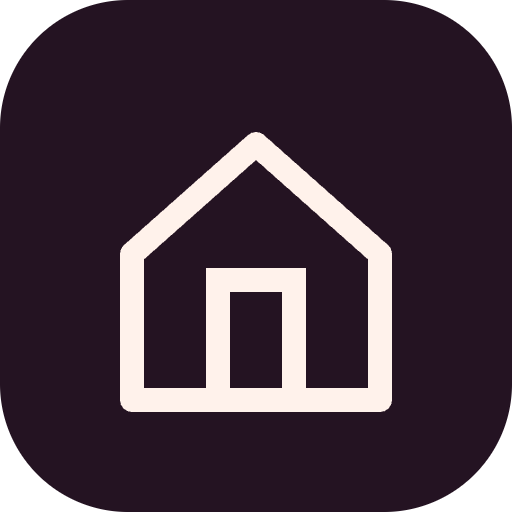
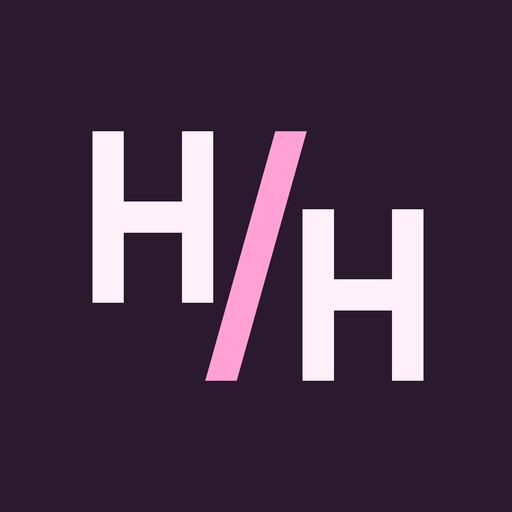
Apply the Staffel H/H identity

diff --git a/internal/web/templates/page.html b/internal/web/templates/page.html
@@ -1,13 +1,13 @@
 {{define "page"}}<!doctype html>
 <html lang="{{.LanguageTag}}" data-locale="{{.Locale}}"><head><meta charset="utf-8"><meta name="viewport" content="width=device-width,initial-scale=1,viewport-fit=cover"><meta name="theme-color" content="#faf5ee"><meta name="csrf-token" content="{{.CSRF}}"><title>{{.Title}} {{t "· Household"}}</title><link rel="manifest" href="/manifest.webmanifest?lang={{.Locale}}"><link rel="icon" href="{{index .Asset "icon.svg"}}"><link rel="apple-touch-icon" href="{{index .Asset "icon-192.png"}}">{{if eq .Locale "en"}}<script nonce="{{.Nonce}}" src="{{index .Asset "i18n-catalog.js"}}" defer></script>{{end}}<script nonce="{{.Nonce}}" src="{{index .Asset "i18n.js"}}" defer></script><script nonce="{{.Nonce}}" src="{{index .Asset "theme.js"}}"></script><link rel="stylesheet" href="{{index .Asset "app.css"}}"><link rel="stylesheet" href="{{index .Asset "settings-shell.css"}}">{{if .Workspace.Primary}}<link rel="stylesheet" href="{{index .Asset "workspace-navigation.css"}}">{{end}}<script nonce="{{.Nonce}}" src="{{index .Asset "pantry-device.js"}}" defer></script><script nonce="{{.Nonce}}" src="{{index .Asset "shopping-extension-ui.js"}}" defer></script><script nonce="{{.Nonce}}" src="{{index .Asset "shopping-device.js"}}" defer></script><script nonce="{{.Nonce}}" src="{{index .Asset "push-device.js"}}" defer></script><script nonce="{{.Nonce}}" src="{{index .Asset "recipe-offline.js"}}" defer></script><script nonce="{{.Nonce}}" src="{{index .Asset "report-values.js"}}" defer></script><script nonce="{{.Nonce}}" src="{{index .Asset "app.js"}}" defer></script><script nonce="{{.Nonce}}" src="{{index .Asset "settings-shell.js"}}" defer></script></head>
 <body data-view="{{.View}}" data-admin="{{if or (eq .View "settings") (eq .View "modules") (eq .View "notification-settings") (eq .View "security") (eq .View "users") (eq .View "audit") (eq .View "backup") (eq .View "system") (eq .View "help") (eq .View "reauth") (eq .View "totp") (eq .View "recovery")}}true{{else}}false{{end}}" data-user="{{.User.UserID}}" data-household="{{.User.HouseholdID}}" data-module="{{.Module.ID}}"><a class="skip" href="#main">{{t "Zum Inhalt"}}</a>
-{{if .User.UserID}}<aside class="sidebar"><a class="brand" href="/">{{template "logo" .}}<span>{{t "Household"}}</span></a><img class="sidebar-sprig" src="{{index .Asset "botanical-sprig.svg"}}" alt="" width="190" height="290"><nav aria-label="{{t "Module"}}"><a class="nav-link {{if eq .View "today"}}current{{end}}" href="/" data-home-link {{if eq .View "today"}}aria-current="page"{{end}}><svg aria-hidden="true"><use href="{{icon .Asset "home"}}"/></svg>{{t "Heute"}}</a>{{range .Modules}}{{if enabled $.States .ID}}<a class="nav-link {{if eq $.Module.ID .ID}}current{{end}}" data-module-id="{{.ID}}" href="{{moduleURL .}}" {{if eq $.Module.ID .ID}}aria-current="page"{{end}}><svg aria-hidden="true"><use href="{{icon $.Asset .Icon}}"/></svg>{{.Short}}</a>{{end}}{{end}}</nav><div class="sidebar-bottom"><p>{{.User.DisplayName}}<small>{{.User.Role}}</small></p></div></aside>
-<header class="topbar"><a class="mobile-brand" href="/">{{template "logo" .}}<span>{{t "Household"}}</span></a>{{if and (ne .View "today") (not .Module.ID)}}<span class="desktop-greeting">{{t "Guten Tag, %s" .User.DisplayName}}</span>{{else}}<span class="shell-kicker">{{if .Module.ID}}{{.Module.Short}}{{else}}{{t "Heute"}}{{end}}</span>{{if ne .View "recipe-workspace"}}<img class="header-branch" src="{{index .Asset "copper-branch.webp"}}" width="760" height="383" alt="">{{end}}{{end}}
+{{if .User.UserID}}<aside class="sidebar"><a class="brand" href="/" aria-label="{{t "Household"}}">{{template "logo" .}}</a><img class="sidebar-sprig" src="{{index .Asset "botanical-sprig.svg"}}" alt="" width="190" height="290"><nav aria-label="{{t "Module"}}"><a class="nav-link {{if eq .View "today"}}current{{end}}" href="/" data-home-link {{if eq .View "today"}}aria-current="page"{{end}}><svg aria-hidden="true"><use href="{{icon .Asset "home"}}"/></svg>{{t "Heute"}}</a>{{range .Modules}}{{if enabled $.States .ID}}<a class="nav-link {{if eq $.Module.ID .ID}}current{{end}}" data-module-id="{{.ID}}" href="{{moduleURL .}}" {{if eq $.Module.ID .ID}}aria-current="page"{{end}}><svg aria-hidden="true"><use href="{{icon $.Asset .Icon}}"/></svg>{{.Short}}</a>{{end}}{{end}}</nav><div class="sidebar-bottom"><p>{{.User.DisplayName}}<small>{{.User.Role}}</small></p></div></aside>
+<header class="topbar"><a class="mobile-brand" href="/" aria-label="{{t "Household"}}">{{template "logo" .}}</a>{{if and (ne .View "today") (not .Module.ID)}}<span class="desktop-greeting">{{t "Guten Tag, %s" .User.DisplayName}}</span>{{else}}<span class="shell-kicker">{{if .Module.ID}}{{.Module.Short}}{{else}}{{t "Heute"}}{{end}}</span>{{if ne .View "recipe-workspace"}}<img class="header-branch" src="{{index .Asset "copper-branch.webp"}}" width="760" height="383" alt="">{{end}}{{end}}
 <nav class="header-tools" aria-label="{{t "Werkzeuge"}}"><a class="icon-button" href="/search" aria-label="{{t "Suche"}}"><svg aria-hidden="true"><use href="{{icon .Asset "search"}}"/></svg></a><a class="icon-button" href="/notifications" aria-label="{{t "Mitteilungen"}}"><svg aria-hidden="true"><use href="{{icon .Asset "bell"}}"/></svg></a>{{template "appearance-control" .}}{{template "language-control" .}}</nav>
 <button type="button" class="icon-button navigation-trigger" data-open="more-dialog" aria-haspopup="dialog" aria-controls="more-dialog" aria-label="{{t "Einstellungen und Konto öffnen"}}"><svg aria-hidden="true"><use href="{{icon .Asset "account"}}"/></svg></button></header>{{else}}<nav class="public-tools" aria-label="{{t "Darstellung und Sprache"}}">{{template "appearance-control" .}}{{template "language-control" .}}</nav>{{end}}
 <main id="main" class="{{if not .User.UserID}}public{{end}}" tabindex="-1"><div id="connection" role="status" hidden></div><div id="update" class="notice" hidden>{{t "Eine neue Version ist bereit."}} <button type="button" id="apply-update">{{t "Jetzt laden"}}</button></div>
 {{if .MFANotice}}<div class="notice" role="status">{{.MFANotice}} <a href="/settings/security">{{t "Zur Sicherheit"}}</a></div>{{end}}{{if .Error}}<div class="notice error" role="alert">{{.Error}}</div>{{end}}{{if .Success}}<div class="notice" role="status">{{.Success}}</div>{{end}}
-{{if eq .View "login"}}<section class="auth-card"><a class="brand" href="/">{{template "logo" .}}<span>{{t "Household"}}</span></a><h1>{{t "Anmelden"}}</h1><form action="/login" method="post"><input type="hidden" name="csrf" value="{{.CSRF}}"><label>{{t "Benutzername"}}<input name="username" autocomplete="username" required maxlength="64" autofocus></label><label>{{t "Passwort"}}<input name="password" type="password" autocomplete="current-password" required maxlength="72"></label><details><summary>{{t "Zweiten Faktor verwenden"}}</summary><label>{{t "Sicherheits- oder Wiederherstellungscode"}}<input name="code" autocomplete="one-time-code" inputmode="text" maxlength="40"></label></details><button class="primary wide">{{t "Anmelden"}} <span aria-hidden="true">→</span></button></form><div class="passkey-login"><button type="button" data-passkey-login>{{t "Mit Passkey anmelden"}}</button><p data-passkey-status role="status" hidden></p></div><script nonce="{{.Nonce}}" src="{{index .Asset "security.js"}}" defer></script></section>
+{{if eq .View "login"}}<section class="auth-card"><a class="brand" href="/" aria-label="{{t "Household"}}">{{template "logo" .}}</a><h1>{{t "Anmelden"}}</h1><form action="/login" method="post"><input type="hidden" name="csrf" value="{{.CSRF}}"><label>{{t "Benutzername"}}<input name="username" autocomplete="username" required maxlength="64" autofocus></label><label>{{t "Passwort"}}<input name="password" type="password" autocomplete="current-password" required maxlength="72"></label><details><summary>{{t "Zweiten Faktor verwenden"}}</summary><label>{{t "Sicherheits- oder Wiederherstellungscode"}}<input name="code" autocomplete="one-time-code" inputmode="text" maxlength="40"></label></details><button class="primary wide">{{t "Anmelden"}} <span aria-hidden="true">→</span></button></form><div class="passkey-login"><button type="button" data-passkey-login>{{t "Mit Passkey anmelden"}}</button><p data-passkey-status role="status" hidden></p></div><script nonce="{{.Nonce}}" src="{{index .Asset "security.js"}}" defer></script></section>
 {{else if eq .View "password"}}<section class="panel narrow"><p class="eyebrow">{{t "KONTO SCHÜTZEN"}}</p><h1>{{t "Ein eigenes Passwort"}}</h1><p>{{t "Wähle mindestens 14 Zeichen, höchstens 72 Bytes. Danach meldest du dich erneut an."}}</p><form method="post" action="/change-password">{{template "csrf" .}}<label>{{t "Aktuelles Passwort"}}<input type="password" name="current" autocomplete="current-password" required></label><label>{{t "Neues Passwort"}}<input type="password" name="next" autocomplete="new-password" minlength="14" required></label><button class="primary">{{t "Passwort speichern"}}</button></form></section>
 {{else if eq .View "today"}}{{template "today" .}}
 {{else if eq .View "workspace-manage"}}{{template "workspace-manage" .}}
@@ -68,7 +68,7 @@
 {{if .User.UserID}}<nav class="mobile-nav" aria-label="{{t "Module mobil"}}"><a href="/" data-home-link class="{{if eq .View "today"}}current{{end}}" {{if eq .View "today"}}aria-current="page"{{end}}><svg aria-hidden="true"><use href="{{icon .Asset "home"}}"/></svg><span>{{t "Heute"}}</span></a>{{range .Modules}}{{if enabled $.States .ID}}<a data-module-id="{{.ID}}" href="{{moduleURL .}}" class="{{if eq $.Module.ID .ID}}current{{end}}" {{if eq $.Module.ID .ID}}aria-current="page"{{end}}><svg aria-hidden="true"><use href="{{icon $.Asset .Icon}}"/></svg><span>{{.Short}}</span></a>{{end}}{{end}}</nav>{{template "navigation-tray" .}}{{end}}
 <dialog id="confirm-dialog" aria-labelledby="confirm-dialog-title" aria-describedby="confirm-dialog-description"><h2 id="confirm-dialog-title">{{t "Eintrag löschen?"}}</h2><p id="confirm-dialog-description">{{t "Verknüpfte Daten können betroffen sein. Dieser Vorgang kann nicht rückgängig gemacht werden."}}</p><div class="actions"><button type="button" data-close>{{t "Abbrechen"}}</button><button type="button" class="danger" id="confirm-delete">{{t "Löschen"}}</button></div></dialog><div id="toast" role="status" aria-live="polite" hidden></div>
 {{template "appearance-dialog" .}}</body></html>{{end}}
-{{define "logo"}}<svg class="logo" viewBox="0 0 40 40" aria-hidden="true"><use href="{{icon .Asset "house-mark"}}"/></svg>{{end}}
+{{define "logo"}}<svg class="logo" viewBox="0 0 100 100" aria-hidden="true"><use href="{{icon .Asset "house-mark"}}"/></svg>{{end}}
 {{define "csrf"}}<input type="hidden" name="csrf" value="{{.CSRF}}">{{end}}
 {{define "mutation-meta"}}{{template "csrf" .}}<input type="hidden" name="version" value="{{integer (index .Record "version")}}"><input type="hidden" name="generation" value="{{with index .States .Module.ID}}{{.Generation}}{{end}}"><input type="hidden" name="idempotency_key" value="{{.Key}}">{{range .States}}<input type="hidden" name="target_generation_{{.ID}}" value="{{.Generation}}">{{end}}{{end}}
 {{define "fields"}}<div class="form-grid">{{range .Entity.Fields}}{{$field:=.}}{{$val:=index $.Record .Name}}<label class="{{if eq .Kind "longtext"}}full{{end}}">{{.Label}}{{if .Required}} <span aria-hidden="true">*</span>{{end}}

diff --git a/internal/web/static/app.css b/internal/web/static/app.css
@@ -462,3 +462,34 @@ body:has(main .editorial-kicker) .shell-kicker{visibility:hidden}
  .shopping-board .shopping-controls{display:flex;align-items:center;justify-content:space-between;gap:6px}
  .shopping-board .shopping-controls>details[open]{flex:1;min-width:0}
 }
+.sidebar .logo,.topbar .logo{--brand-slash:var(--nav-selected)}
+.brand:has(.logo),.topbar .mobile-brand:has(.logo){min-width:44px;min-height:44px}
+
+/* Give the standalone monogram a different scale at each point of entry. */
+.auth-card > .brand,
+.sidebar > .brand {
+  width: fit-content;
+  justify-content: center;
+  margin-inline: auto;
+  padding: 0;
+}
+.auth-card > .brand {
+  margin-block: 0 4px;
+}
+.auth-card > .brand .logo {
+  width: clamp(76px, 14vw, 96px);
+  height: auto;
+}
+.auth-card > .brand + h1 {
+  margin: 0 0 24px;
+  font-size: clamp(22px, 3vw, 26px);
+  line-height: 1.2;
+  text-align: center;
+}
+.sidebar > .brand {
+  margin-block: 0 24px;
+}
+.sidebar > .brand .logo {
+  width: 64px;
+  height: 64px;
+}

diff --git a/DESIGN.md b/DESIGN.md
@@ -230,7 +230,7 @@ Motion is conditional on `prefers-reduced-motion: no-preference`: shared button/
 
 Controls have gently rounded corners; notices, editing panels, and authentication surfaces use the progressively larger radii in the frontmatter. Mobile panels use 13px corners. Rows and module settings remain square and separated by a one-pixel line. Current tabs retain a two-pixel accent underline with rounded top corners. Status badges are compact pills; circular completion controls retain their existing functional silhouette.
 
-Navigation icons come from the bundled outline SVG system, typically 22px with a 1.8px stroke. Do not introduce remote icon fonts or a new illustration system. The local house mark remains the identity asset.
+Navigation icons come from the bundled outline SVG system, typically 22px with a 1.8px stroke. Do not introduce remote icon fonts or a new illustration system. The Household mark uses two staggered H letters and an ascending slash (Staffel). Show the mark alone on sign-in and in desktop and mobile navigation. Each brand link has the accessible name Household. The letters inherit the link color and the slash uses the theme accent. The standalone icon uses the Pink Dark palette.
 
 ## Components
 
@@ -302,4 +302,4 @@ Use two or three primary module destinations, a short contextual row for the act
 
 The 17 approved household and administrative PNGs are mapped to application routes in [the visual review](docs/visual-fidelity.md). Standard light and system on a light device use the ivory/navy composition.
 
-Use the transparent copper branch in the household header, the outline house with its serif wordmark and the vector sprig on the sidebar and account drawer. Use the market bag as decoration for shopping. Recipe imagery comes from the recipe's authorized attachment. The empty photo treatment uses the book icon. Paper gradients, fine outlines, restrained shadows and serif card headings distinguish household records from the navy administrative surfaces. Financial amounts and task completion use explicitly labeled scales.
+Use the transparent copper branch in the household header, the Staffel monogram in the sidebar and the vector sprig in the sidebar and account drawer. Use the market bag as decoration for shopping. Recipe imagery comes from the recipe's authorized attachment. The empty photo treatment uses the book icon. Paper gradients, fine outlines, restrained shadows and serif card headings distinguish household records from the navy administrative surfaces. Financial amounts and task completion use explicitly labeled scales.

diff --git a/docs/implementation.md b/docs/implementation.md
@@ -2231,3 +2231,10 @@ At `cb8d372` the PR Fuel job passed 185 checks and all 32 scans, while the push 
 - [x] A local link check resolved all 67 relative README links, anchors and image paths. `node scripts/check-local-artifacts.cjs --index`, `node --test scripts/local-artifacts.test.cjs` (5/5) and gitleaks v8.30.1 (staged, branch, and `--log-opts=--all` over 146 commits) passed.
 - [x] Recorded `docs/img/` as the single exception to excluding generated screenshots, in `AGENTS.md` and `docs/workflow-reference-adoption.md`.
 - [ ] Hosted CI and CodeRabbit results for this change are recorded in its pull requests, not here.
+
+## Staffel H/H identity
+
+- [x] Applied the shared monogram to the desktop sidebar, mobile header and sign-in, plus the standalone favicon and maskable PWA icons.
+- [x] Passed the Go web package and all 48 service-worker tests. Windows Edge rendered the sign-in mark in Warm Light, Warm Dark, Pink Light and Pink Dark. The live sprite, favicon and both manifest icons matched the source files after the local Docker rebuild.
+- [ ] Physical-device icon refresh and push delivery.
+- [x] Centered the sign-in mark (76–96px) above a 22–26px heading and centered a 64px mark in the signed-in sidebar. Edge before/after captures in outputs/staffel-layout cover four sign-in widths and themes and two authenticated sidebar widths using an isolated household.
